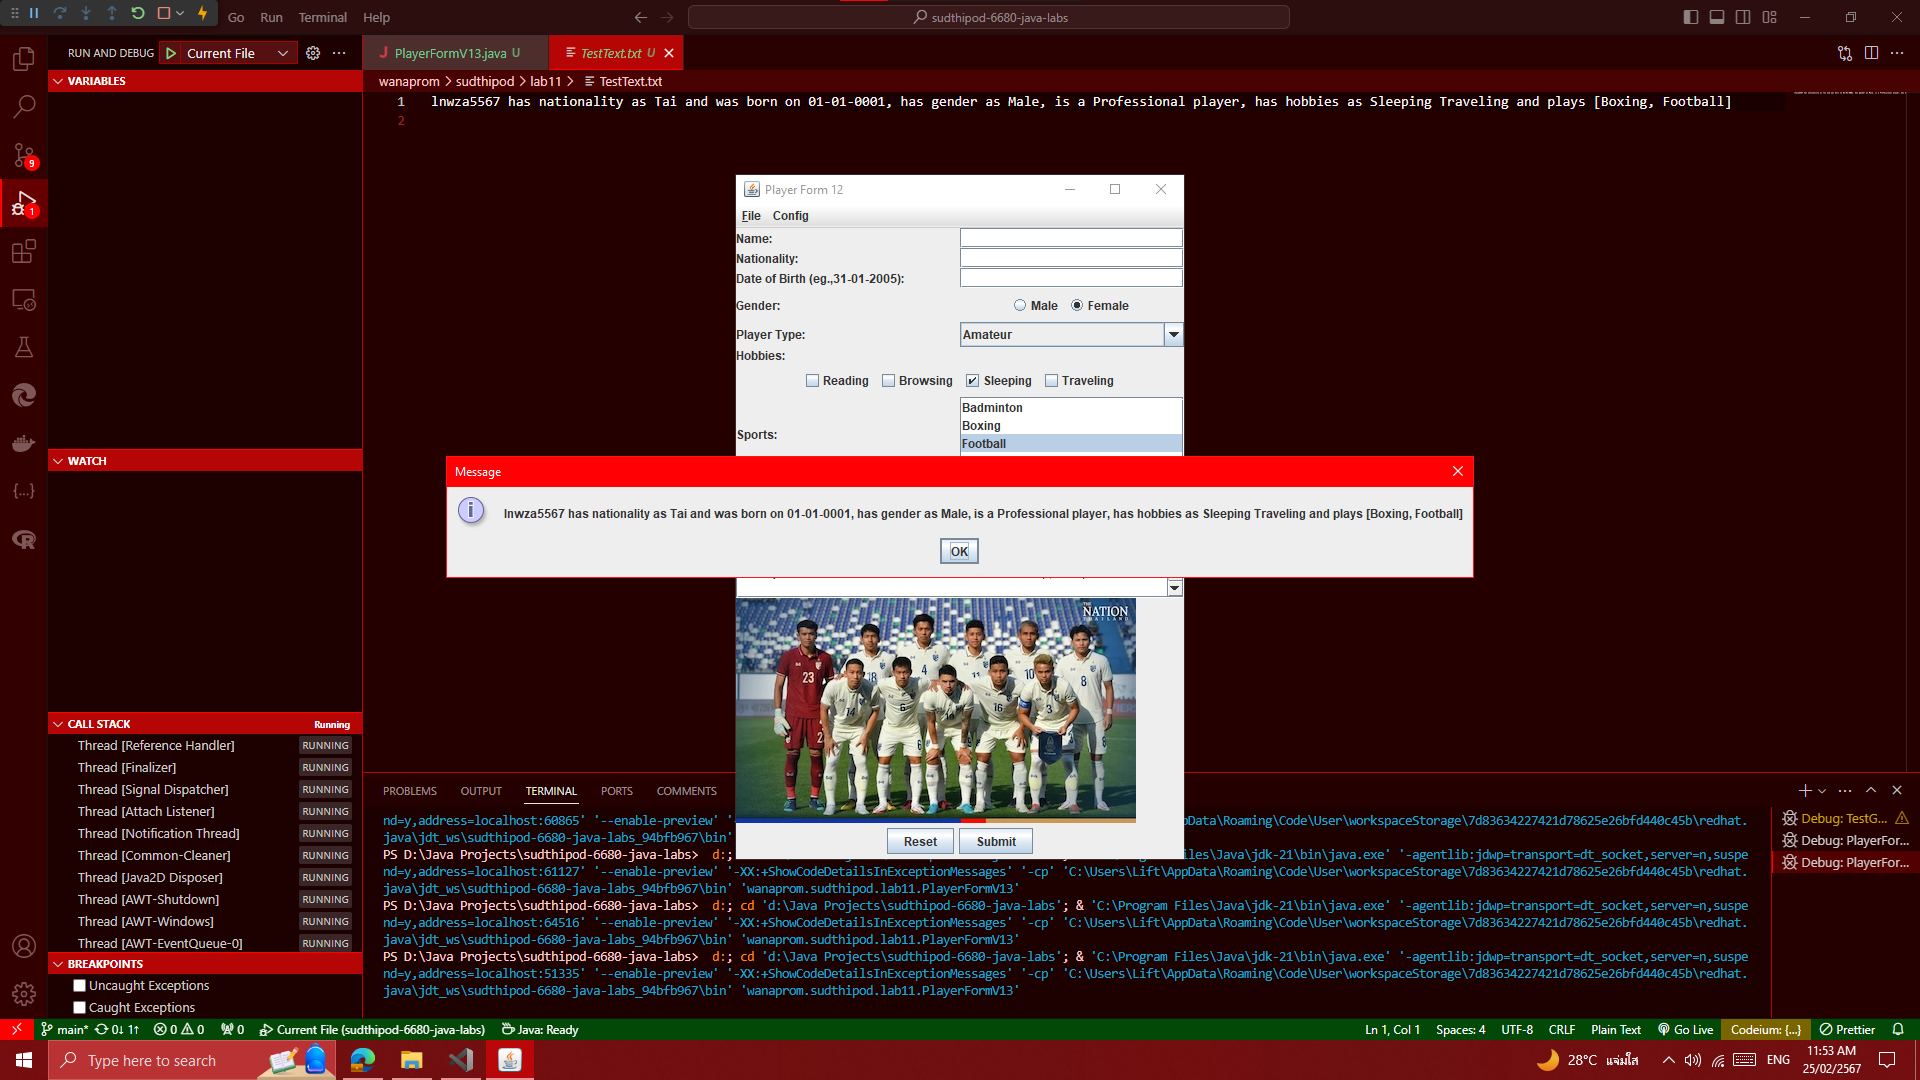
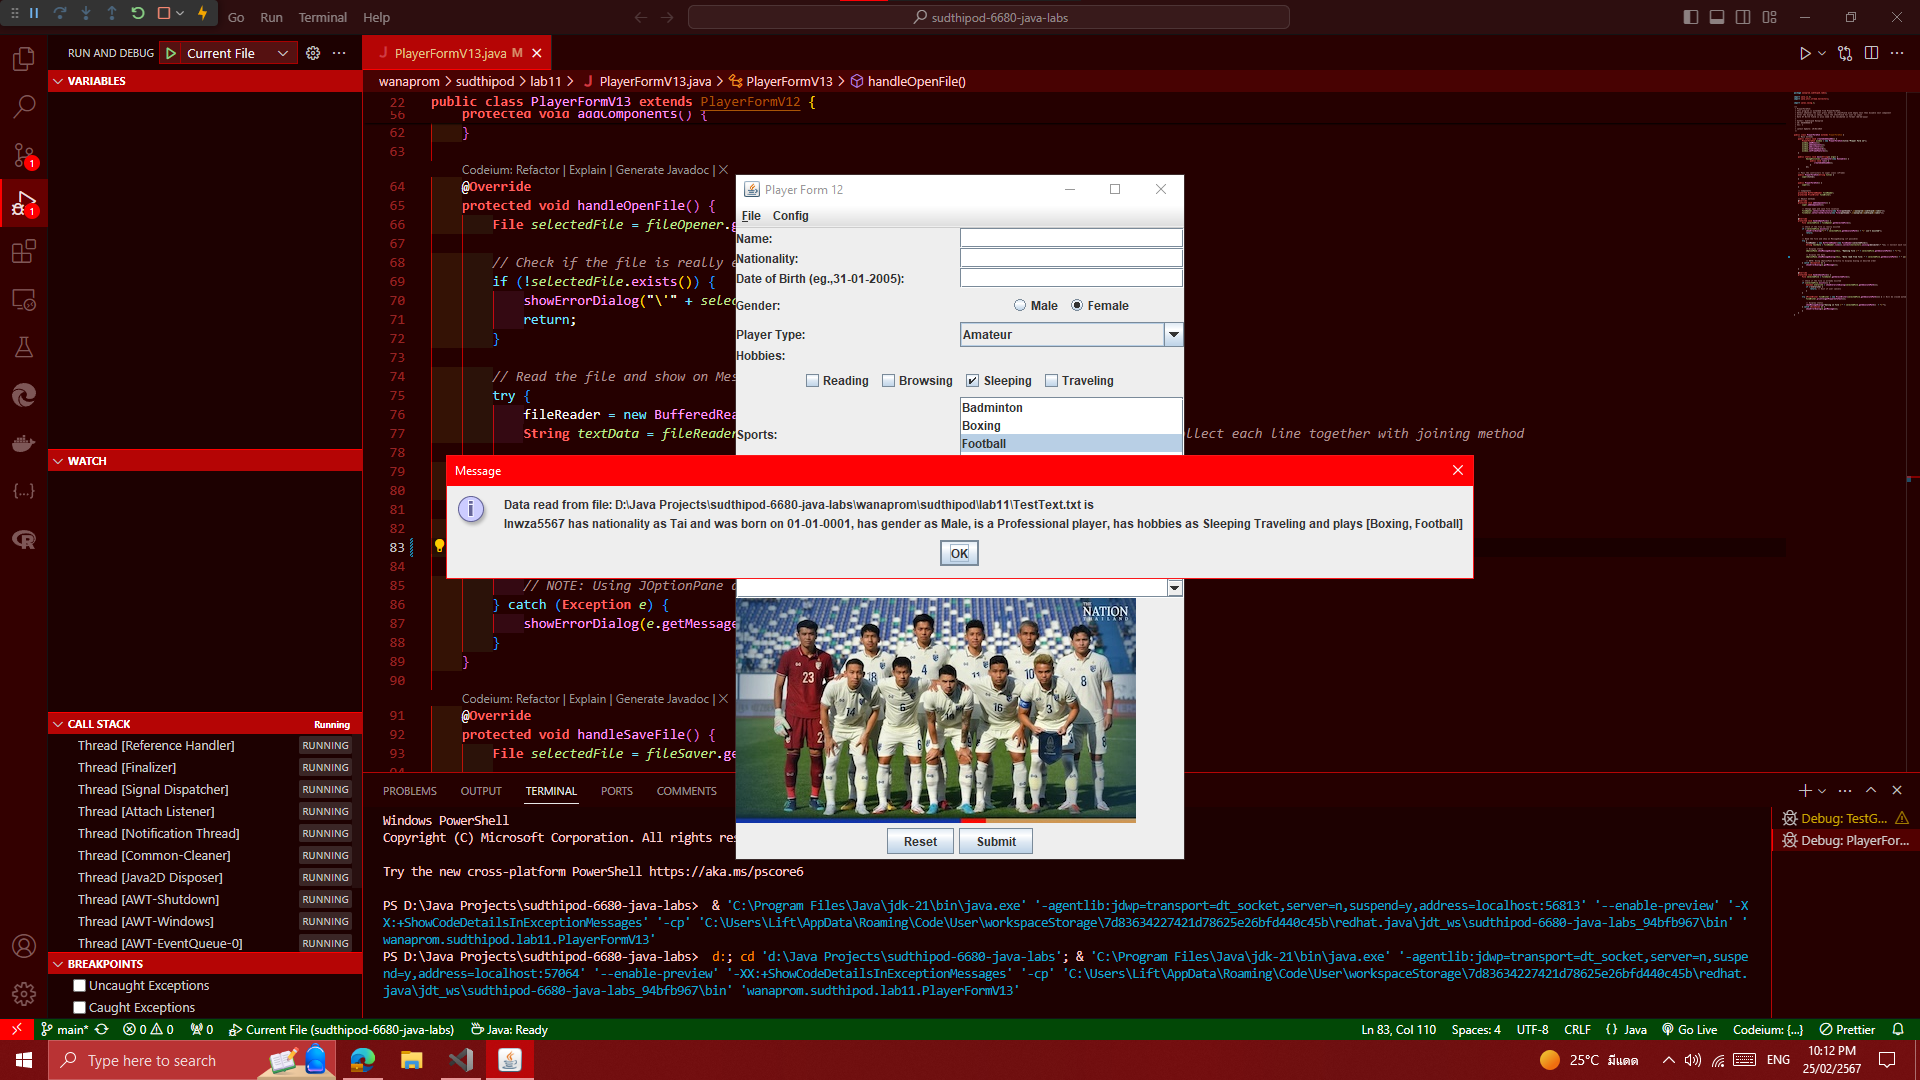
Correct figure17

diff --git a/wanaprom/sudthipod/lab11/PlayerFormV13.java b/wanaprom/sudthipod/lab11/PlayerFormV13.java
@@ -80,7 +80,7 @@ public class PlayerFormV13 extends PlayerFormV12 {
             JOptionPane.showMessageDialog(this, "Opening file \'" + selectedFile.getAbsolutePath() + "\'");
 
             // Display the data
-            JOptionPane.showMessageDialog(this, textData);
+            JOptionPane.showMessageDialog(this, "Data read from file: " + selectedFile.getAbsolutePath() + " is\n" + textData);
 
             // NOTE: Using JOptionPane directly to display dialog in desired order
         } catch (Exception e) {
